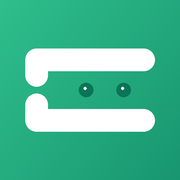
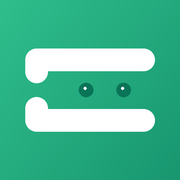
ㄸ 마크 세로획 틈 확대

Changed region(s): [[0.1389, 0.4167, 0.2778, 0.6111]]

diff --git a/scripts/make_icons.py b/scripts/make_icons.py
@@ -71,7 +71,7 @@ def draw_logo(size: int, scale: float = 1.0, radius_ratio: float = 0.0) -> Image
     top = (big - height) / 2
     midy = top + height / 2
     r = bar / 2
-    split = bar * 0.30         # 세로획 가운데 틈(ㄸ)
+    split = bar * 0.62         # 세로획 가운데 틈(ㄸ)
 
     # 위 'ㄱ'
     d.rounded_rectangle([left, top, vright, midy - split / 2], radius=r, fill=WHITE)
